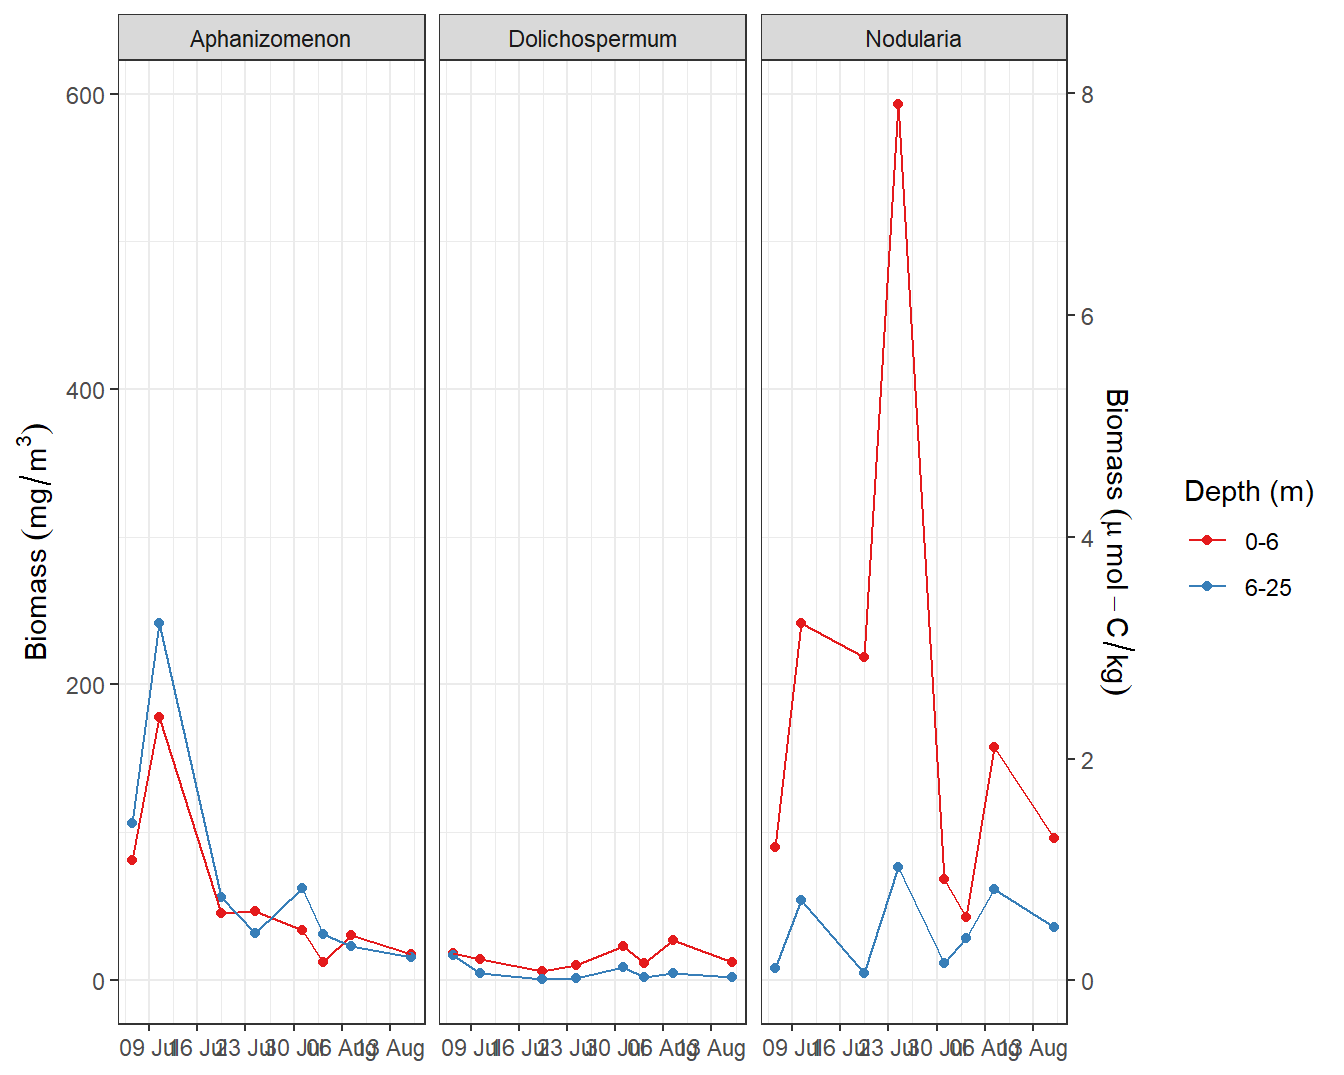
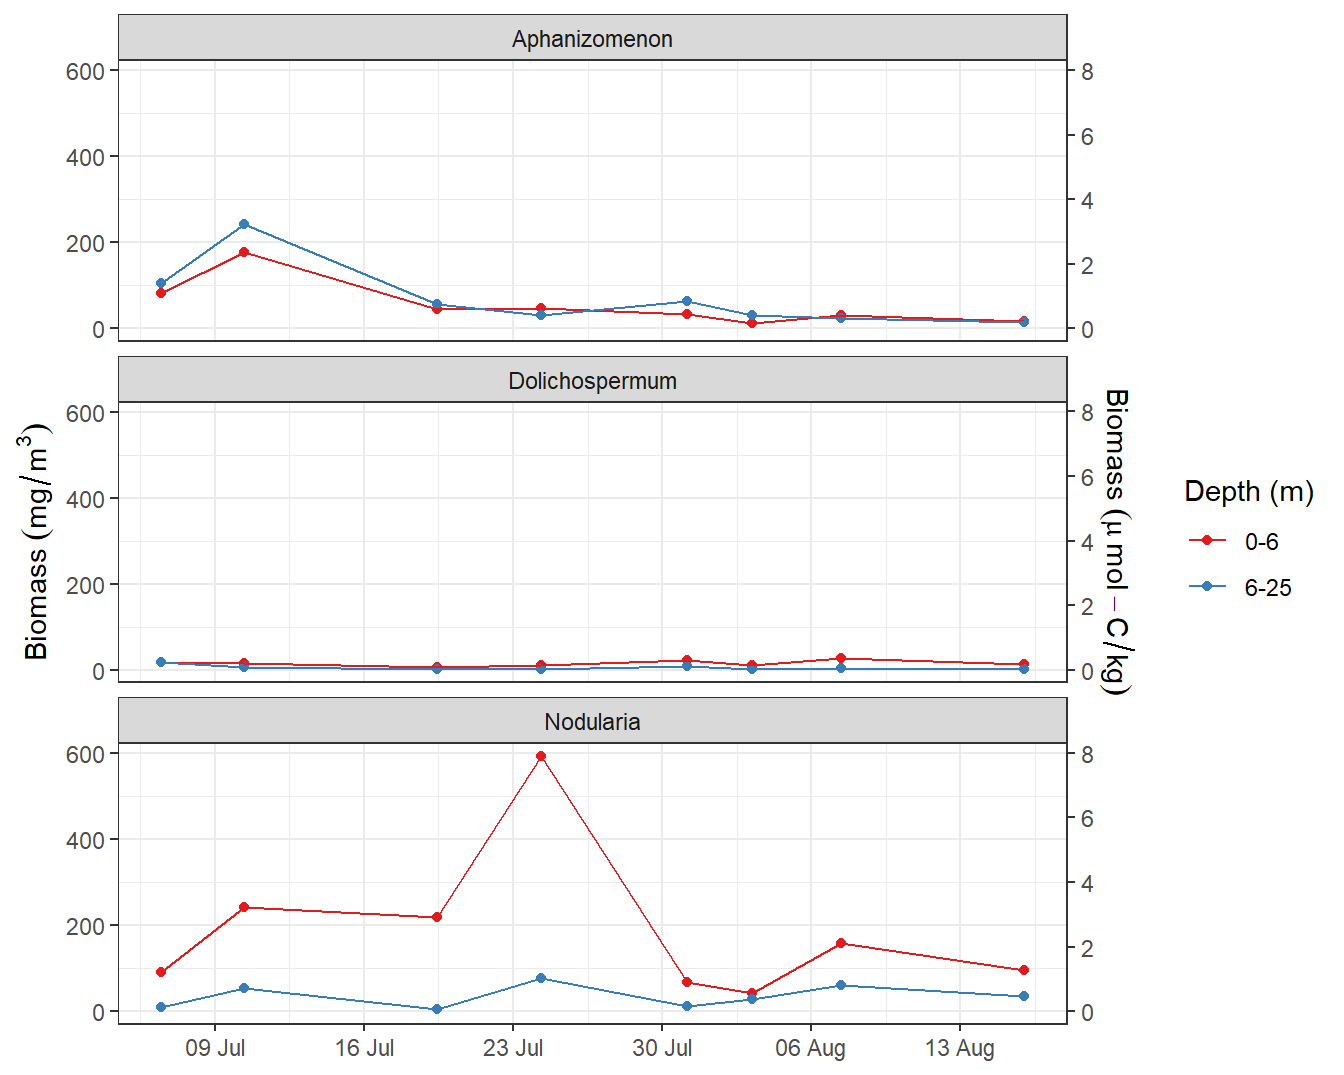
Build site.

diff --git a/docs/Phytoplankton.html b/docs/Phytoplankton.html
@@ -552,16 +552,16 @@ This reproducible <a href="http://rmarkdown.rstudio.com">R Markdown</a> analysis
 <div class="panel panel-default">
 <div class="panel-heading">
 <p class="panel-title">
-<a data-toggle="collapse" data-parent="#workflowr-checks" href="#strongRepositoryversionstrongahrefhttpsgithubcomjensdanielmuellerBloomSailtree58406a94133e02559e87c8ef66d72dafa4906bb2targetblank58406a9a"> <span class="glyphicon glyphicon-ok text-success" aria-hidden="true"></span> <strong>Repository version:</strong> <a href="https://github.com/jens-daniel-mueller/BloomSail/tree/58406a94133e02559e87c8ef66d72dafa4906bb2" target="_blank">58406a9</a> </a>
+<a data-toggle="collapse" data-parent="#workflowr-checks" href="#strongRepositoryversionstrongahrefhttpsgithubcomjensdanielmuellerBloomSailtree576f7f9308cfd20a5f11680a2c6cfff277e5ea0btargetblank576f7f9a"> <span class="glyphicon glyphicon-ok text-success" aria-hidden="true"></span> <strong>Repository version:</strong> <a href="https://github.com/jens-daniel-mueller/BloomSail/tree/576f7f9308cfd20a5f11680a2c6cfff277e5ea0b" target="_blank">576f7f9</a> </a>
 </p>
 </div>
[2 lines of base64/hex data omitted]
 <div class="panel-body">
 <p>
 Great! You are using Git for version control. Tracking code development and connecting the code version to the results is critical for reproducibility.
 </p>
 <p>
-The results in this page were generated with repository version <a href="https://github.com/jens-daniel-mueller/BloomSail/tree/58406a94133e02559e87c8ef66d72dafa4906bb2" target="_blank">58406a9</a>. See the <em>Past versions</em> tab to see a history of the changes made to the R Markdown and HTML files.
+The results in this page were generated with repository version <a href="https://github.com/jens-daniel-mueller/BloomSail/tree/576f7f9308cfd20a5f11680a2c6cfff277e5ea0b" target="_blank">576f7f9</a>. See the <em>Past versions</em> tab to see a history of the changes made to the R Markdown and HTML files.
 </p>
 <p>
 Note that you need to be careful to ensure that all relevant files for the analysis have been committed to Git prior to generating the results (you can use <code>wflow_publish</code> or <code>wflow_git_commit</code>). workflowr only checks the R Markdown file, but you know if there are other scripts or data files that it depends on. Below is the status of the Git repository when the results were generated:
@@ -616,6 +616,40 @@ Message
 </tr>
 </thead>
 <tbody>
+<tr>
+<td>
+Rmd
+</td>
+<td>
+<a href="https://github.com/jens-daniel-mueller/BloomSail/blob/576f7f9308cfd20a5f11680a2c6cfff277e5ea0b/analysis/Phytoplankton.Rmd" target="_blank">576f7f9</a>
+</td>
+<td>
+jens-daniel-mueller
+</td>
+<td>
+2020-10-24
+</td>
+<td>
+unit conversion biomass
+</td>
+</tr>
+<tr>
+<td>
+html
+</td>
+<td>
+<a href="https://rawcdn.githack.com/jens-daniel-mueller/BloomSail/dd00fd37b66175c27d4e6e9f4a64cb41c6f1332c/docs/Phytoplankton.html" target="_blank">dd00fd3</a>
+</td>
+<td>
+jens-daniel-mueller
+</td>
+<td>
+2020-10-24
+</td>
+<td>
+Build site.
+</td>
+</tr>
 <tr>
 <td>
 Rmd
@@ -1015,7 +1049,7 @@ tp_ID_grid &lt;- full_join(cruise_dates, tp_ID_grid)</code></pre>
   ggplot(aes(date_time_ID, value, col = dep_grid)) +
   geom_point() +
   geom_line() +
-  facet_wrap(~ Species) +
+  facet_wrap(~ Species, ncol=1) +
   scale_color_brewer(palette = &quot;Set1&quot;, name = &quot;Depth (m)&quot;) +
   scale_x_datetime(breaks = &quot;week&quot;, date_labels = &quot;%d %b&quot;) +
   scale_y_continuous(sec.axis = sec_axis(~ . * 0.16 / 12,
